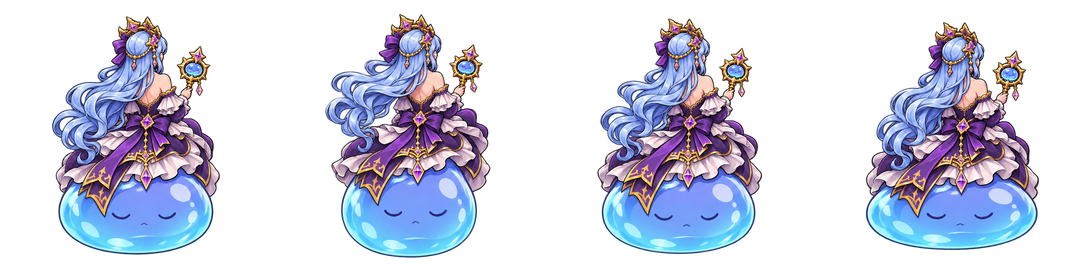
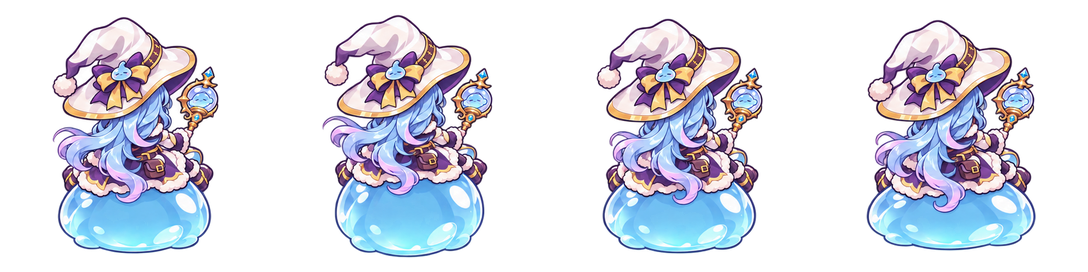
[Codex] 승인된 마녀 디자인으로 플레이어 비행 스프라이트 교체 (#64)
Agent: Codex

diff --git a/art/sources/slime-battle/README.md b/art/sources/slime-battle/README.md
@@ -3,6 +3,17 @@
 사용자가 승인한 전투 시안의 캐릭터·일반 적·기본탄·배경을 적용한다.
 새 캐릭터는 기존 풍운객 슬롯의 전투 외형이며 이름·초상화·능력은 그대로다.
 
+## 마녀 디자인 적용
+
+사용자가 승인한 마녀 뒷모습 시안을 기준으로 플레이어 4프레임을 교체했다.
+큰 아이보리 모자, 보라·금색 리본과 슬라임 배지, 하늘색 머리카락, 유리구슬
+지팡이, 털 장식이 있는 보라·아이보리 복식과 작은 허리 주머니를 유지한다.
+탑승 슬라임도 뒤에서 보므로 등에 얼굴을 그리지 않는다.
+
+모자 끝·머리카락·옷자락과 슬라임의 팽창·눌림이 네 프레임에서 달라진다.
+기존 272px 셀, 114×114px 표시 크기, 5fps 재생과 기존 게임 코드를 그대로 사용한다.
+이번 교체는 플레이어 시트만 대상이며, 일반 적·탄·배경·UI·초상화는 변경하지 않는다.
+
 ## 제작 경로
 
 - 원화와 동작 프레임: Codex 내장 `image_gen` (`art_source: host_image`).
